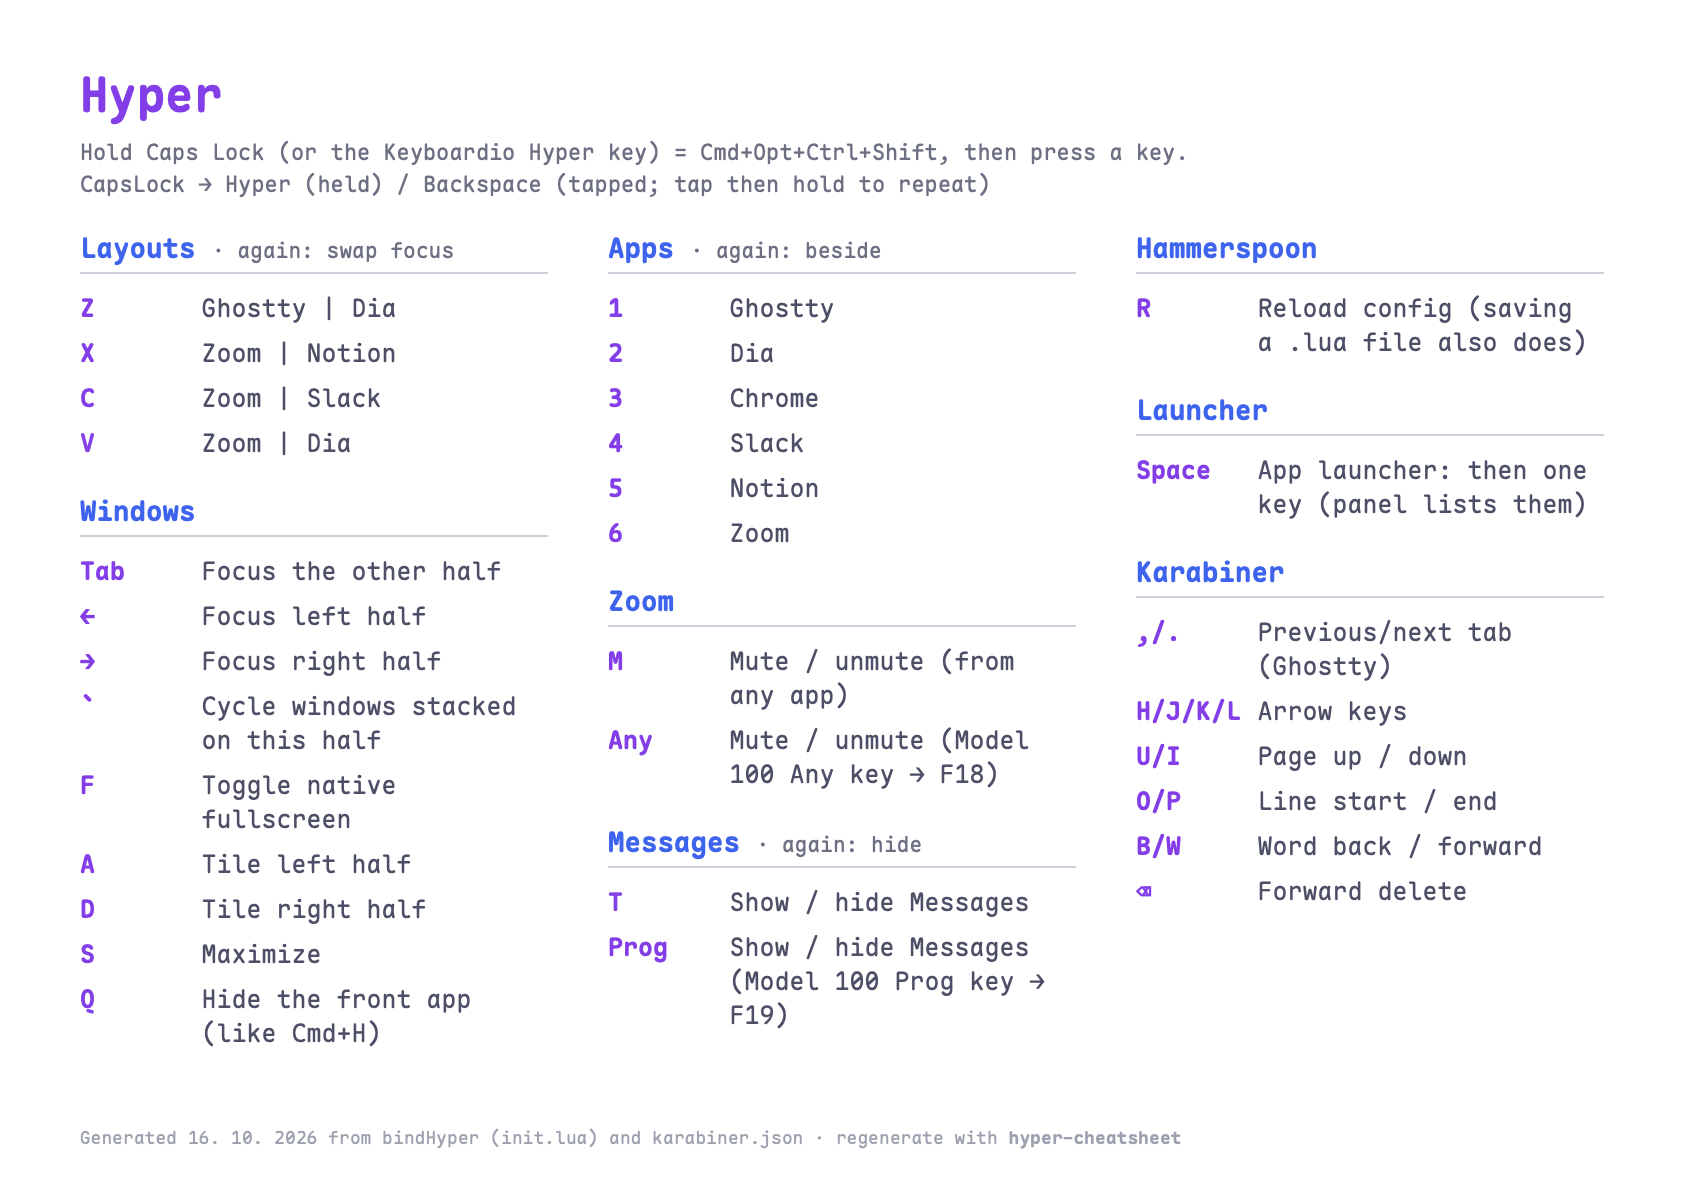
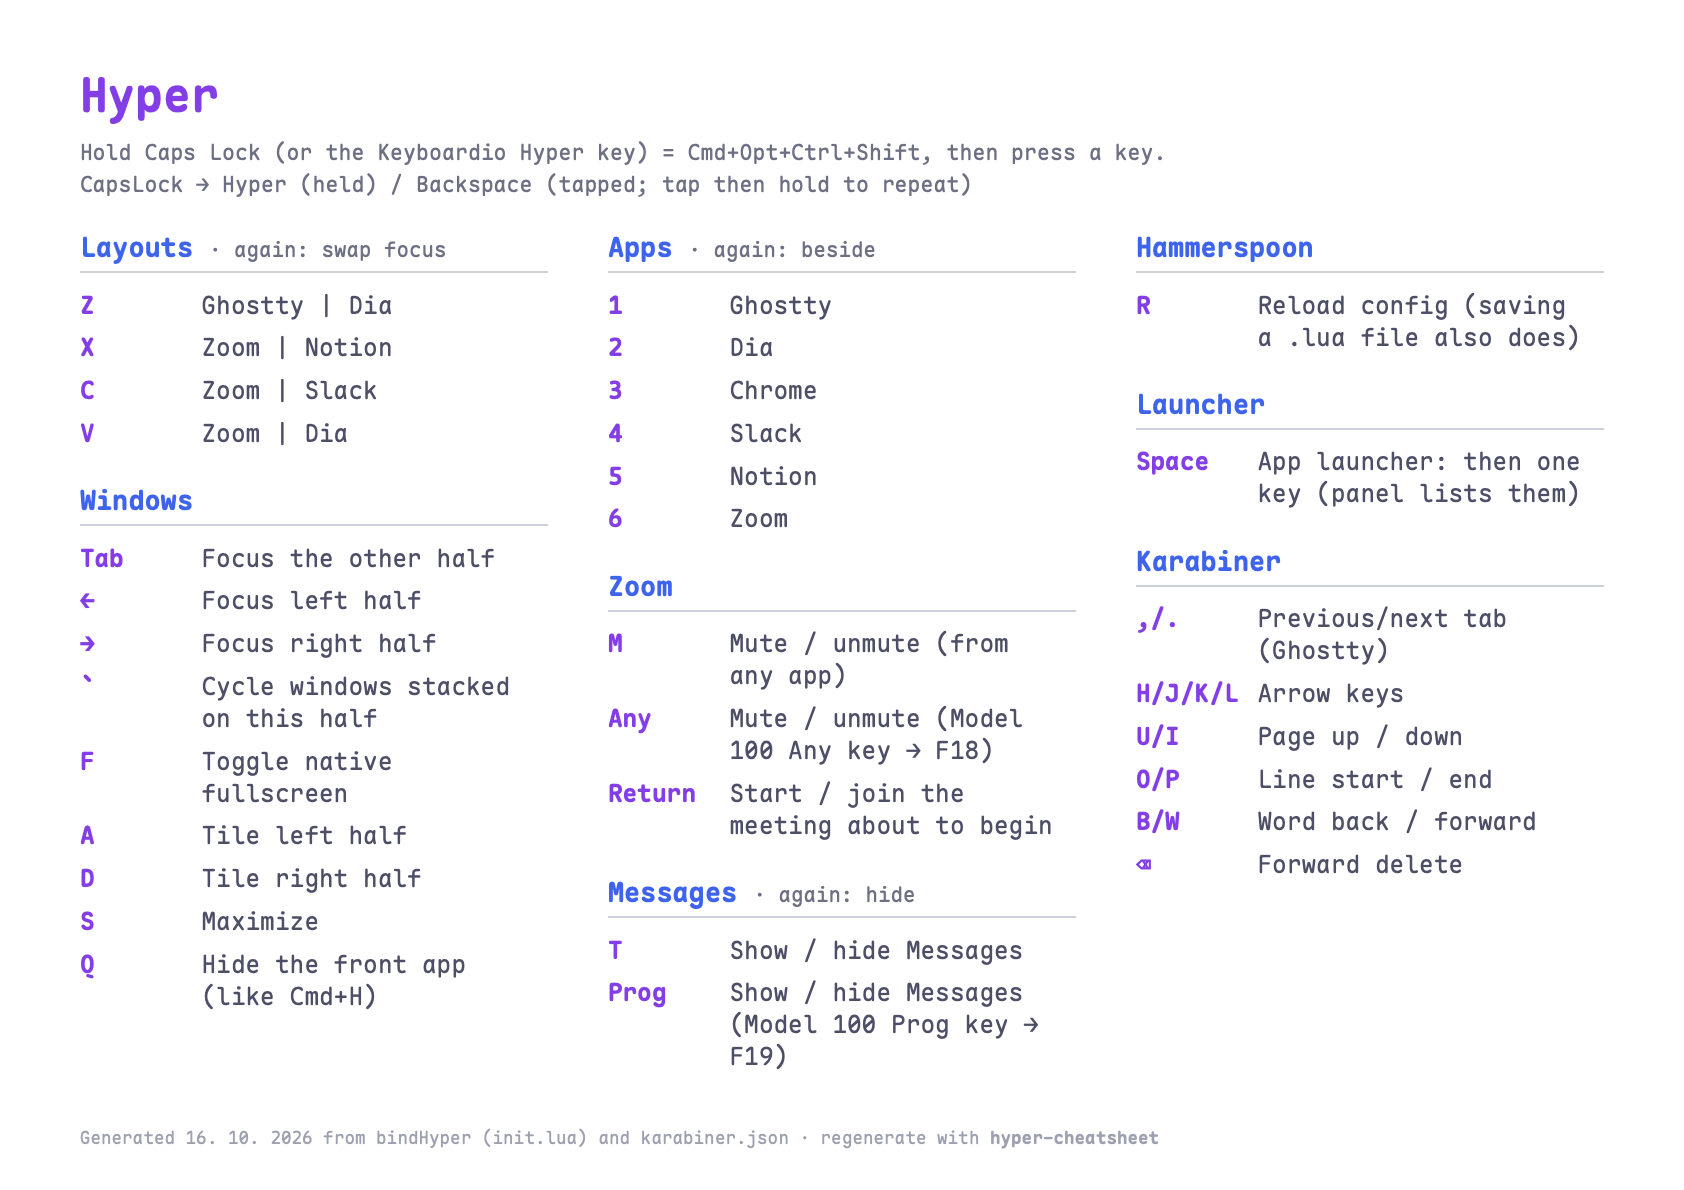
Hammerspoon: Hyper+Return starts / joins the Zoom meeting about to begin
Joining the next meeting meant finding it in Zoom or the calendar. The work
calendar isn't in macOS Calendar, so there's no EventKit route; Zoom's home
screen has it, in a calendar sidebar whose cards are readable through AX.
About 10 minutes before a Zoom meeting the card gains a button titled Start
(host) or Join, so the cards with that button are the candidates — no time
logic. One is pressed, several get a chooser, none says so. Zoom hidden is
unhidden first (windows are invisible to AX until then); not running, it's
launched and its sidebar (~9 s to load) is waited for.

Verified on a live meeting: the button appears on a freshly launched Zoom
with nothing clicked, the finder listed only that meeting, and Hyper+Return
started it. zoomJoinableMeetings() lists what it would press, for hs -c.
The Model 100's Enter key lights red with the other Zoom keys.

Claude-Session: https://claude.ai/code/session_01GPLQFH3ZSRtaBoie4R85Q1

diff --git a/README.md b/README.md
@@ -18,7 +18,8 @@ same on a MacBook and a Keyboardio Model 100. Catppuccin Mocha everywhere.
   to put it beside the window you came from — Hyper+Space then one letter
   reaches the rest (W WhatsApp, C Claude…; Shift+letter for "beside"),
   Hyper+A/S/D tile or maximize. Messages pops over the current layout and hides again
-  (Hyper+T); Zoom mutes from any app (Hyper+M, or one key on the Model 100).
+  (Hyper+T); Zoom mutes from any app (Hyper+M, or one key on the Model 100),
+  and Hyper+Return joins the meeting about to begin.
 - **A nav layer under the right hand.** Hyper+H/J/K/L are arrows; U/I page,
   O/P line start/end, B/W word jumps — in every app, terminal included.
 - **It documents itself.** Hold Hyper alone for an on-screen cheatsheet; hold
@@ -56,7 +57,7 @@ what to watch out for.
 |---|---|---|
 | Hyper key, nav layer | [Karabiner-Elements](https://karabiner-elements.pqrs.org/) — Caps Lock is Hyper when held, Backspace when tapped | `config/karabiner/` |
 | Keyboardio Model 100 | Firmware keymap with a lit Hyper layer — `keyboardio-layers`, `keyboardio-backup` | `config/keyboardio/model100.json` |
-| Windows, apps, cheatsheet | [Hammerspoon](https://www.hammerspoon.org/) — layouts, app focus, Messages, Zoom mute; reloads on save | `config/hammerspoon/` |
+| Windows, apps, cheatsheet | [Hammerspoon](https://www.hammerspoon.org/) — layouts, app focus, Messages, Zoom mute and join; reloads on save | `config/hammerspoon/` |
 
 **Editors and Git**
 

diff --git a/GUIDE.md b/GUIDE.md
@@ -968,6 +968,22 @@ alphabetically, System Settings last.
 |---|---|
 | Hyper + M | Toggle mute (works from any app, no focus switch) |
 | Any (Model 100) | Same, as one key: Chrysalis maps Any to `F18`, Hammerspoon binds `F18` |
+| Hyper + Return | Start / join the meeting about to begin |
+
+**Hyper+Return** joins the next Zoom meeting from any app, without touching
+Zoom. The work calendar isn't in macOS Calendar, so it reads Zoom's own: the
+calendar sidebar on Zoom's home screen. About 10 minutes before a Zoom
+meeting (and while it's under way) its card gets a **Start** button (you host)
+or **Join**; Hyper+Return presses it. Several at once → a picker; none →
+"No Zoom meeting starting soon". Meetings without a Zoom link (Teams, Meet)
+never get the button, so they're ignored.
+
+- Zoom only has to be running: hidden is fine (it's unhidden first, since a
+  hidden app's windows are invisible to accessibility); if it isn't running,
+  it's launched and the sidebar gets ~9 s to load.
+- It depends on Zoom's interface: if an update renames the button, it says
+  "no meeting" rather than pressing anything else. To check what it would
+  press: `hs -c 'return zoomJoinableMeetings()'`.
 
 ### Messages (Hammerspoon)
 
